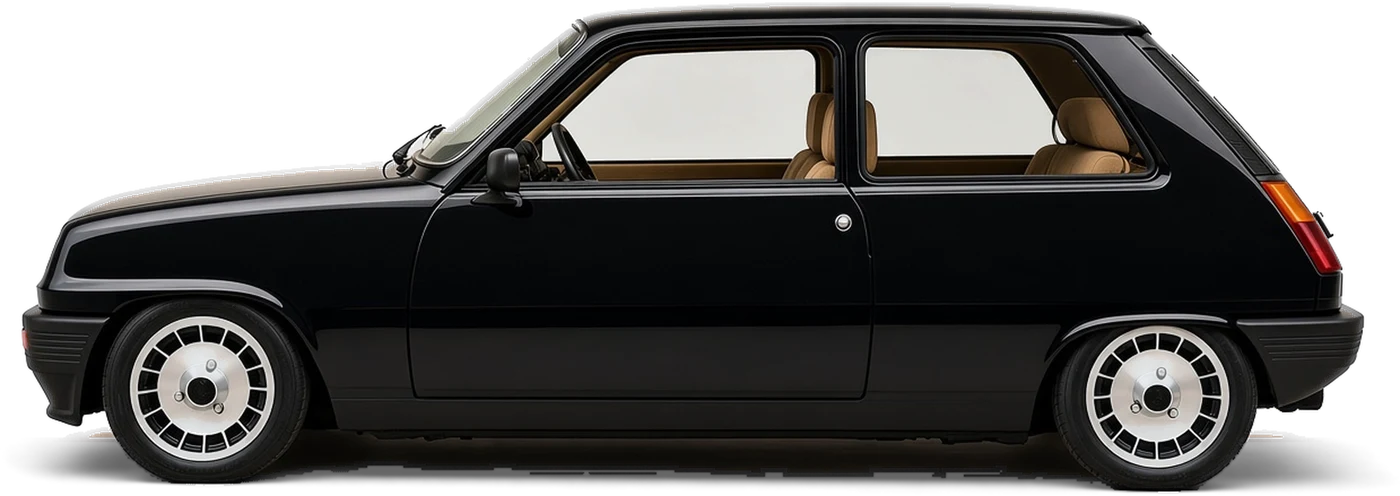
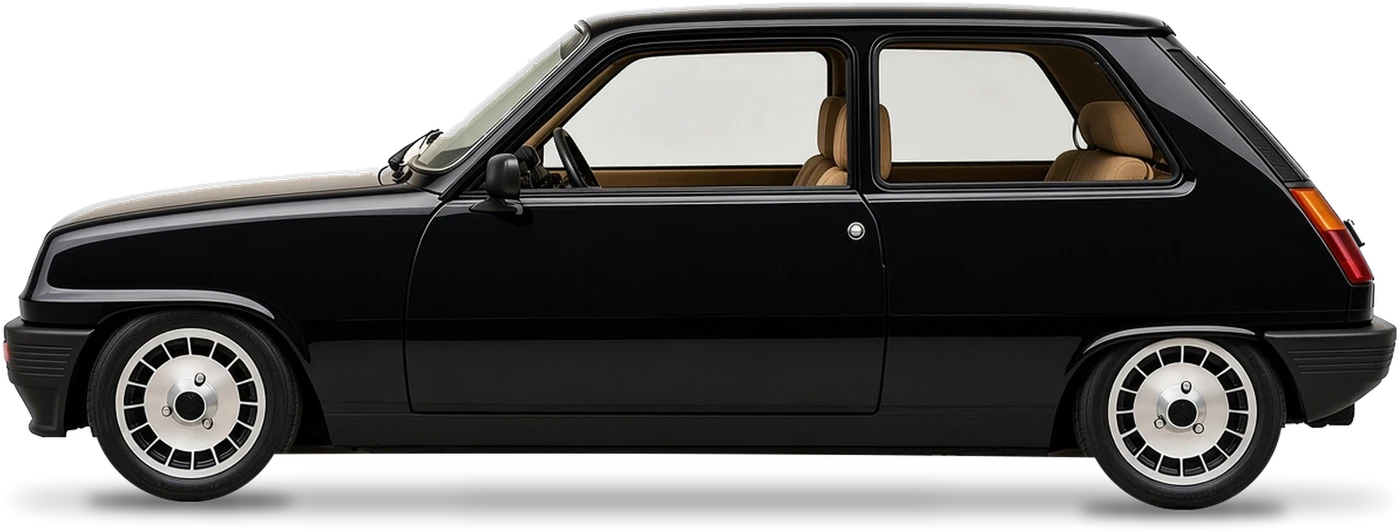
Club: treu l'animació i suavitza l'ombra del R5 (#29)

diff --git a/assets/css/style.css b/assets/css/style.css
@@ -1198,13 +1198,3 @@ a.contact-card:hover { transform: translateY(-3px); }
 .club-car img { width: 100%; height: auto; display: block; }
 .club-car { margin: 0 auto 28px; }
 .club-car { margin-top: 28px; }
-/* Club R5 drive-in */
-@media (prefers-reduced-motion: no-preference) {
-  .club-car img { animation: clubCarIn 1.4s cubic-bezier(.22,.8,.25,1) .15s both; }
-  @keyframes clubCarIn {
-    0%   { opacity: 0; transform: translateX(-60px); }
-    75%  { opacity: 1; transform: translateX(4px); }
-    100% { opacity: 1; transform: translateX(0); }
-  }
-}
-.club-car { overflow: hidden; }

diff --git a/club.html b/club.html
@@ -28,7 +28,7 @@
     <main>
     <section id="sobre" class="home-about" style="padding-top: 120px;">
         <figure class="club-car">
-            <img src="images/club-r5.webp" alt="Renault 5 Alpine Turbo negre de perfil" width="1400" height="496" fetchpriority="high" decoding="async">
+            <img src="images/club-r5.webp" alt="Renault 5 Alpine Turbo negre de perfil" width="1400" height="531" fetchpriority="high" decoding="async">
         </figure>
         <h2>Sobre Nosaltres</h2>
         <div class="home-about-grid">
